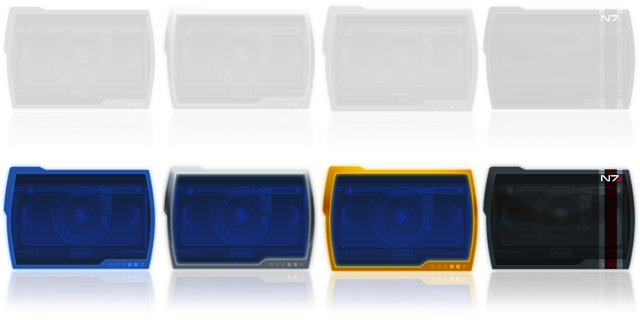
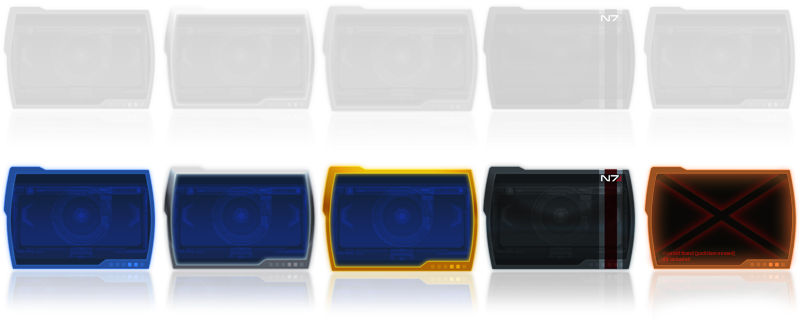
Implemented Unobtainable item rarity

diff --git a/files/theme/me3-builder/js/me3-builder-min.js b/files/theme/me3-builder/js/me3-builder-min.js
@@ -2267,7 +2267,7 @@
         { name: a.sC, a: a.tC, f: C.rarity.rare, d: "Gear_Combo_AssaultDamageGrenadeCap.png",
         c: [{ attributes: { grenadeCapacity: 1, weaponDamageAssault: .04 } }, { attributes: { grenadeCapacity: 1, weaponDamageAssault: .06 } }, { attributes: { grenadeCapacity: 1, weaponDamageAssault: .08 } }, 
             { attributes: { grenadeCapacity: 2, weaponDamageAssault: .1 } }, { attributes: { grenadeCapacity: 2, weaponDamageAssault: .12 } }] },
-        { name: "Vibration damper", a: a.vibration_damper_desc, f: C.rarity.uncommon, d: "Gear_WeaponStability.png",
+        { name: "Vibration Damper", a: a.vibration_damper_desc, f: C.rarity.unobtainable, d: "Gear_WeaponStability.png",
         c: [{ attributes: { stability: .15 }}, { attributes: { stability: .22 }}, { attributes: { stability: .28 }}, { attributes: { stability: .34 }}, { attributes: { stability: .40 }}] }
     ], [
         { name: a.ek, a: a.fk, d: "WeaponDamageBonus_AssaultRifle.png",
@@ -3483,7 +3483,15 @@
     */
     V = V || {}; jQuery191(function () { V.Ef.initialize() });
     (function (d, c) {
-        function e() { var d = c(this); d.hasClass("ui-collapse-down") ? (c(".ui-collapsible", d.parent().parent()).slideUp("fast"), d.removeClass("ui-collapse-down")) : (c(".ui-collapsible").hide(), c(".ui-collapse-button").removeClass("ui-collapse-down"), c(".ui-collapsible", d.parent().parent()).slideDown("fast"), d.addClass("ui-collapse-down")) } function P() {
+
+        function e() { 
+            var d = c(this); 
+            d.hasClass("ui-collapse-down") ? 
+                (c(".ui-collapsible", d.parent().parent()).slideUp("fast"), d.removeClass("ui-collapse-down")) : 
+                (c(".ui-collapsible").hide(), c(".ui-collapse-button").removeClass("ui-collapse-down"), c(".ui-collapsible", d.parent().parent()).slideDown("fast"), d.addClass("ui-collapse-down")) 
+        } 
+            
+        function P() {
             for (var d = [], e = 0; e < equipment[G.Fa].length; e++) {
                 for (var f = equipment[G.Fa][e], g = c("<ul>"), k = 0; k < f.c.length; k++) {
                     var m = c("<p>").text(f.name + " " + Y[k]), y = c("<li>").append(m).data("type",
@@ -3496,11 +3504,14 @@
                 for (var f = equipment[G.jb][e], g = c("<ul>"), k = 0; k < f.c.length; k++) { var m = c("<p>").text(f.name + " " + Y[k]), y = c("<li>").append(m).data("type", G.jb).data("equipment", e).data("rank", k).click(n), p = c("<div>").append(c("<h3>").text(f.name + " " + Y[k])).append(c("<p>").text(ia.Nb(f.a, f.c[k].attributes))); Q.ba(m, p); g.append(y) } f = c("<div>").addClass("equipment-small rarity-small-" + U.rarity.common).append(aa.Lb(Core.mediaUrl + "images/consumables/" + f.d, 128, 96, "equipment"));
                 g = c("<div>").addClass("equipment-cell").append(f).append(g); d.push(g)
             } d.push(c("<div>").addClass("clearfix")); return c("<div>").attr("id", "equipment-type-" + G.jb).addClass("selector-group").data("type", G.jb).append(d)
-        } function K() {
+        } 
+        
+        function K() {
             for (var d = c("<div>").addClass("ui-collapse-button").click(e), 
                      f = c("<div>").addClass("infobar ui-collapse-header"), 
                      g = c("<div>").addClass("ui-collapsible"), 
-                     k = c("<div>").addClass("ui-collapsible"), 
+                     k = c("<div>").addClass("ui-collapsible"),
+                     z = c("<div>").addClass("ui-collapsible"),
                      m = 0; m < equipment[G.mb].length; m++) {
                 var y = equipment[G.mb][m], p = c("<div>")
                     .addClass("weapon-small rarity-small-" + y.f)
@@ -3508,15 +3519,19 @@
                     .append(c("<p>").text(y.name)).data("type", G.mb)
                     .data("equipment", m)
                     .click(n);
-                    y.f == U.rarity.uncommon ? g.append(p) : k.append(p)
+                    y.f == U.rarity.uncommon ? g.append(p) : y.f == U.rarity.rare ? k.append(p) : z.append(p)
             } 
             g = c("<div>").addClass("selector-group")
-                          .append(f.clone().append(c("<p>").text(w.HB)).append(d.clone(!0).attr("id", "gear-button-" + U.rarity.uncommon)))
-                          .append(g.append(c("<div>").addClass("clearfix")).hide()); 
-            d = c("<div>").addClass("selector-group")
-                          .append(f.append(c("<p>").text(w.oB)).append(d.attr("id", "gear-button-" + U.rarity.rare)))
+                          .append(f.clone().append(c("<p>").text("Uncommon")).append(d.clone(1).attr("id", "gear-button-" + U.rarity.uncommon)))
+                          .append(g.append(c("<div>").addClass("clearfix")).hide());
+            k = c("<div>").addClass("selector-group")
+                          .append(f.clone().append(c("<p>").text("Rare")).append(d.clone(1).attr("id", "gear-button-" + U.rarity.rare)))
                           .append(k.append(c("<div>").addClass("clearfix")).hide());
-            return c("<div>").attr("id", "equipment-type-" + G.mb).data("type", G.mb).append(g, d)
+            z = c("<div>").addClass("selector-group")
+                          .append(f.clone().append(c("<p>").text("Unobtainable")).append(d.clone(1).attr("id", "gear-button-" + U.rarity.unobtainable)))
+                          .append(z.append(c("<div>").addClass("clearfix")).hide());
+
+            return c("<div>").attr("id", "equipment-type-" + G.mb).data("type", G.mb).append(g).append(k).append(z)
         } 
         
         function g() {
@@ -3548,10 +3563,14 @@
         } function A(d, e) { e != t && (S = -1, t.hide()); e || c("#build-content").trigger("overlayHidden.View.Character") } function m(d, e) { e != xa && (f = -1, xa.hide()); e || c("#build-content").trigger("overlayHidden.View.Character") } function ha(d, e) { e != ya && (x = f = -1, ya.hide()); e || c("#build-content").trigger("overlayHidden.View.Character") } function O(e) {
             c(this).hasClass("rank-active") ?
             e.stopPropagation() : (c("#equipment-selector .item-rank").removeClass("rank-active"), c(this).addClass("rank-active"), v = c(this).data("rank"), E.Kw(S, v), d.Ea(), S != G.Fa && S != G.jb && na(c("#equipment-type-" + S)), c("#character-builder").trigger(k[S]))
-        } function n() { var e = S; if (S == G.Fa || S == G.jb) v = c(this).data("rank"); E.Jw(S, c(this).data("equipment"), v); Telemetry.trackEvent("ME3 Builder", "onEquipmentSelected", "slot: " + S); A(); d.Ea(); c("#character-builder").trigger(k[e]) } function Z() {
+        } 
+        
+        function n() { var e = S; if (S == G.Fa || S == G.jb) v = c(this).data("rank"); E.Jw(S, c(this).data("equipment"), v); Telemetry.trackEvent("ME3 Builder", "onEquipmentSelected", "slot: " + S); A(); d.Ea(); c("#character-builder").trigger(k[e]) } function Z() {
             var d = E.Qa(B.ha); la(c("#primary-weapon"),
                 d); Q.Aa(c("#primary-weapon .weapon-dmg")); Q.ba(c("#primary-weapon .weapon-dmg"), oa(d, X[d.type][d.ra])); Q.Aa(c("#primary-weapon .weapon img")); Q.ba(c("#primary-weapon .weapon img"), va(d)); d = E.Qa(B.xa); -1 != d.type && (la(c("#secondary-weapon"), d), Q.Aa(c("#secondary-weapon .weapon-dmg")), Q.ba(c("#secondary-weapon .weapon-dmg"), oa(d, X[d.type][d.ra])), Q.Aa(c("#secondary-weapon .weapon img")), Q.ba(c("#secondary-weapon .weapon img"), va(d)))
-        } function D(e) {
+        } 
+        
+        function D(e) {
             c(this).hasClass("rank-active") ? e.stopPropagation() :
             (c("#weapon-selector .item-rank").removeClass("rank-active"), c(this).addClass("rank-active"), r = c(this).data("rank"), E.Qw(f, r), ka(), d.Ea(), c("#character-builder").trigger("weaponSelected.View.WeaponSelector"))
         } function ca() { E.Nw(f, c(this).data("type"), c(this).data("weapon"), r); Telemetry.trackEvent("ME3 Builder", "onWeaponSelected", "type: " + c(this).data("type")); m(); d.Ea(); c("#character-builder").trigger("weaponSelected.View.WeaponSelector") } function ja(e) {

diff --git a/files/theme/me3-builder/css/view.weapons.css b/files/theme/me3-builder/css/view.weapons.css
@@ -255,12 +255,13 @@
 .rarity-2 { background: url('../images/rarity.png') no-repeat -320px -160px; }
 .rarity-3 { background: url('../images/rarity.png') no-repeat -480px -160px; }
 
-.rarity-small-0 { background: url('../images/rarity.png') no-repeat 0 -128px; background-size: 512px 256px; }
-.rarity-small-1 { background: url('../images/rarity.png') no-repeat -128px -128px; background-size: 512px 256px; }
-.rarity-small-2 { background: url('../images/rarity.png') no-repeat -256px -128px; background-size: 512px 256px; }
-.rarity-small-3 { background: url('../images/rarity.png') no-repeat -384px -128px; background-size: 512px 256px; }
+.rarity-small-0 { background: url('../images/rarity.png') no-repeat 0 -128px; background-size: 640px 256px; }
+.rarity-small-1 { background: url('../images/rarity.png') no-repeat -128px -128px; background-size: 640px 256px; }
+.rarity-small-2 { background: url('../images/rarity.png') no-repeat -256px -128px; background-size: 640px 256px; }
+.rarity-small-3 { background: url('../images/rarity.png') no-repeat -384px -128px; background-size: 640px 256px; }
+.rarity-small-4 { background: url('../images/rarity.png') no-repeat -512px -128px; background-size: 640px 256px; }
 
-.rarity-xsmall-0 { background: url('../images/rarity.png') no-repeat 0 -80px; background-size: 320px 160px; }
-.rarity-xsmall-1 { background: url('../images/rarity.png') no-repeat -80px -80px; background-size: 320px 160px; }
-.rarity-xsmall-2 { background: url('../images/rarity.png') no-repeat -160px -80px; background-size: 320px 160px; }
-.rarity-xsmall-3 { background: url('../images/rarity.png') no-repeat -240px -80px; background-size: 320px 160px; }
+.rarity-xsmall-0 { background: url('../images/rarity.png') no-repeat 0 -80px; background-size: 400px 160px; }
+.rarity-xsmall-1 { background: url('../images/rarity.png') no-repeat -80px -80px; background-size: 400px 160px; }
+.rarity-xsmall-2 { background: url('../images/rarity.png') no-repeat -160px -80px; background-size: 400px 160px; }
+.rarity-xsmall-3 { background: url('../images/rarity.png') no-repeat -240px -80px; background-size: 400px 160px; }
